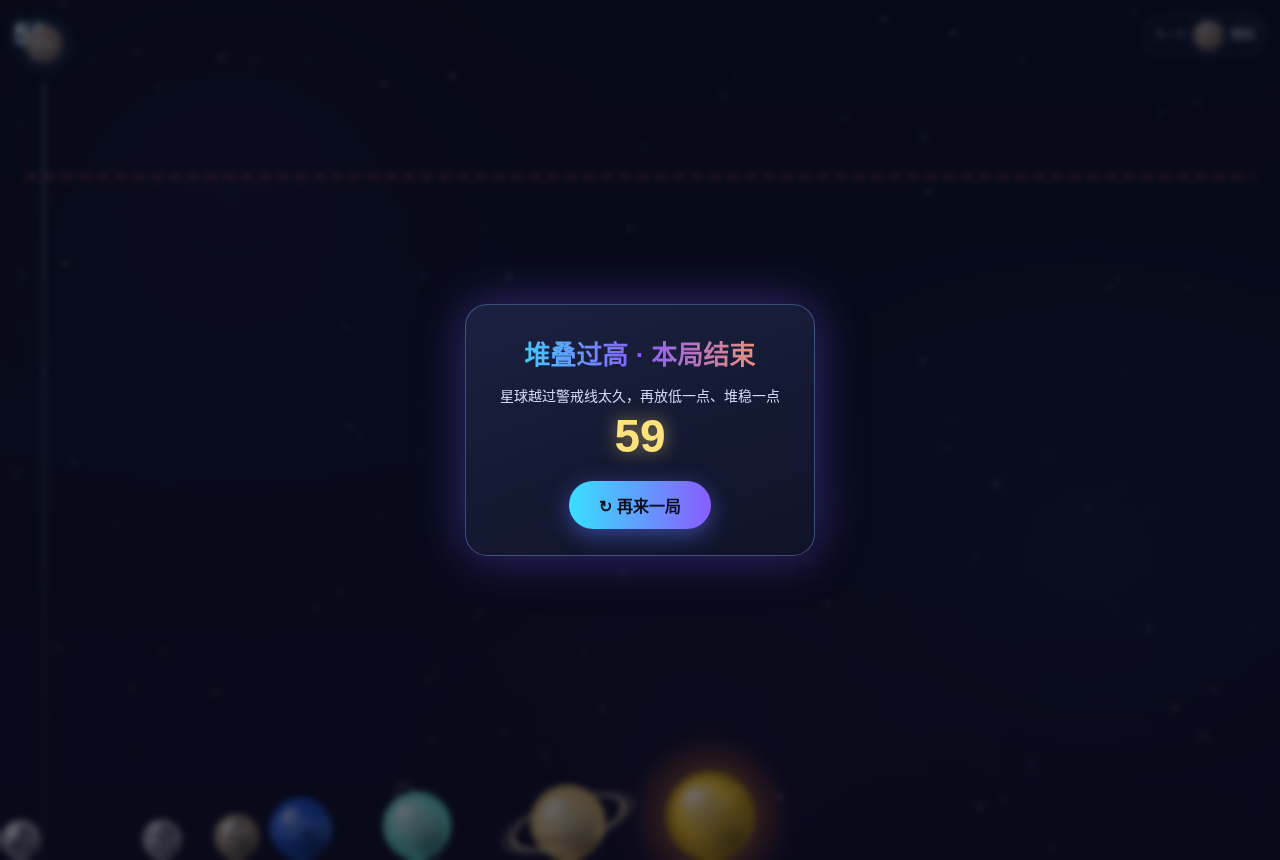
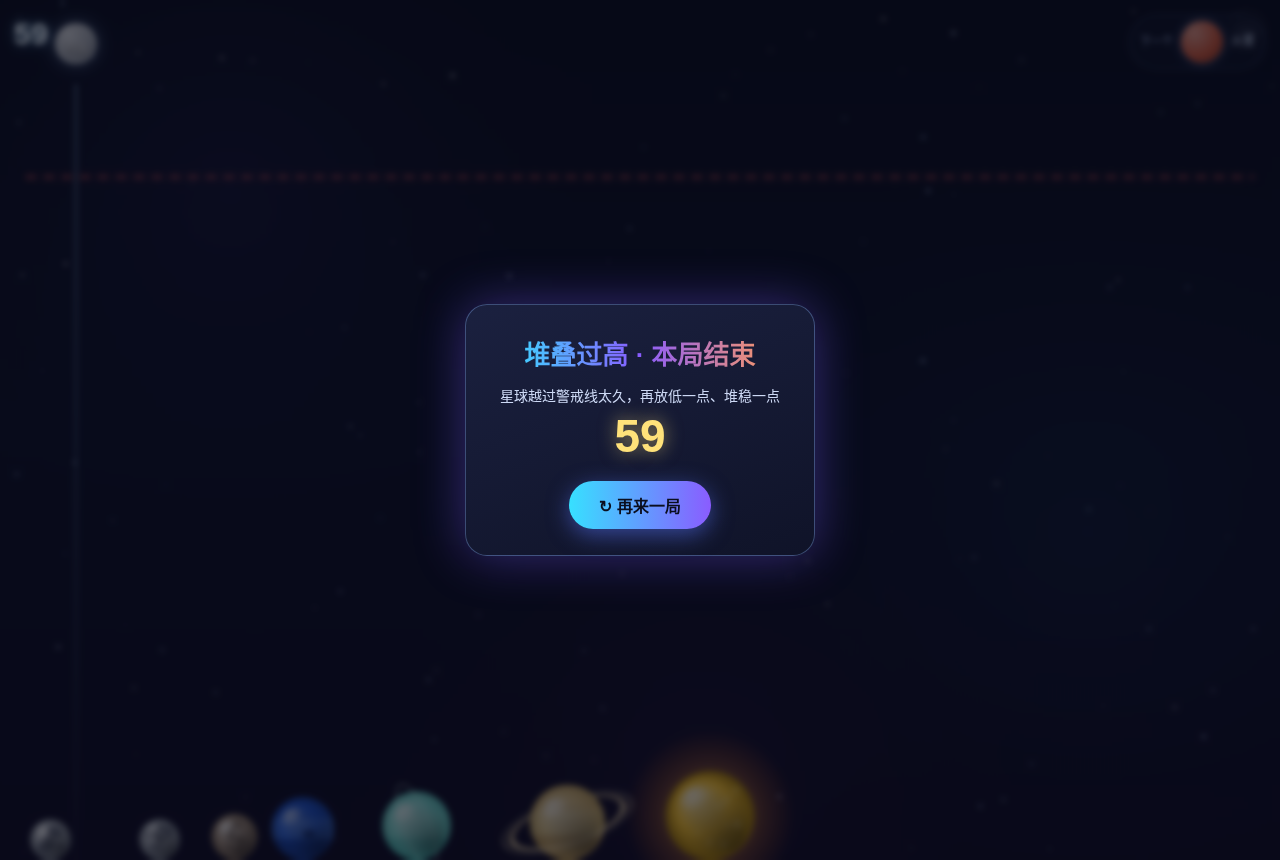
fix(merge-planet): 顶部瞄准区避让HUD防止重叠 (2026-10-20)

Changed region(s): [[0.0, 0.9372, 0.0625, 1.0], [0.0, 0.0302, 0.0938, 0.0907], [0.9062, 0.0302, 0.9688, 0.0907]]

diff --git a/test/merge-planet.test.ts b/test/merge-planet.test.ts
@@ -18,7 +18,11 @@ import {
   createOverline,
   updateOverline,
   clampAim,
-  recordBest
+  planAimRange,
+  rectsOverlap,
+  AIM_HUD_GAP,
+  recordBest,
+  type Rect2
 } from '../src/tools/mini-games/gpu-games/merge-planet/game/logic.ts'
 
 test('进化链：11 级，半径与基础分严格递增，终极为黑洞', () => {
@@ -130,6 +134,73 @@ test('瞄准夹取：越界收敛、NaN 归中、min>max 归中', () => {
   assert.equal(clampAim(200, 40, 360), 200)
   assert.equal(clampAim(NaN, 40, 360), 200)
   assert.equal(clampAim(10, 300, 100), 200)
+})
+
+test('避让区间：无 HUD 时退回纯墙内区间', () => {
+  const p = planAimRange({ width: 375, radius: 16, glow: 14, wallPad: 26, bandY: 0, bandH: 76 })
+  assert.equal(p.min, 26 + 30)
+  assert.equal(p.max, 375 - 26 - 30)
+})
+
+test('避让区间：右侧胶囊把右界内缩，球贴 max 右缘不相交', () => {
+  const reach = 16 + 14
+  const capsule: Rect2 = { x: 300, y: 8, w: 62, h: 34 }
+  const p = planAimRange({ width: 375, radius: 16, glow: 14, wallPad: 26, bandY: 0, bandH: 76, avoid: [capsule] })
+  // max = capsule.x - reach - GAP
+  assert.equal(p.max, 300 - reach - AIM_HUD_GAP)
+  // 球包围盒（含发光）贴 max 时与胶囊无交集
+  const ball: Rect2 = { x: p.max - reach, y: 0, w: reach * 2, h: 76 }
+  assert.equal(rectsOverlap(ball, capsule), false)
+  // 左界不受右侧胶囊影响，仍是墙内左界
+  assert.equal(p.min, 26 + reach)
+})
+
+test('避让区间：左侧分数 HUD 把左界内缩，球贴 min 左缘不相交', () => {
+  const reach = 16 + 14
+  const scoreHud: Rect2 = { x: 0, y: 10, w: 46, h: 38 }
+  const p = planAimRange({ width: 375, radius: 16, glow: 14, wallPad: 26, bandY: 0, bandH: 76, avoid: [scoreHud] })
+  assert.equal(p.min, scoreHud.x + scoreHud.w + reach + AIM_HUD_GAP)
+  const ball: Rect2 = { x: p.min - reach, y: 0, w: reach * 2, h: 76 }
+  assert.equal(rectsOverlap(ball, scoreHud), false)
+})
+
+test('避让区间：胶囊随长文案变宽自动进一步内缩（依据实际包围盒，非写死常数）', () => {
+  const reach = 16 + 14
+  const shortCap: Rect2 = { x: 313, y: 8, w: 49, h: 34 } // 短名
+  const longCap: Rect2 = { x: 286, y: 8, w: 76, h: 34 } // 长星球名更宽
+  const a = planAimRange({ width: 375, radius: 16, glow: 14, wallPad: 26, bandY: 0, bandH: 76, avoid: [shortCap] })
+  const b = planAimRange({ width: 375, radius: 16, glow: 14, wallPad: 26, bandY: 0, bandH: 76, avoid: [longCap] })
+  assert.ok(b.max < a.max, '更宽胶囊应把右界压得更左')
+  // 两档右界均对应各自胶囊左缘
+  assert.equal(a.max, shortCap.x - reach - AIM_HUD_GAP)
+  assert.equal(b.max, longCap.x - reach - AIM_HUD_GAP)
+})
+
+test('避让区间：HUD 在滑轨带垂直之外时不做水平避让', () => {
+  const farHud: Rect2 = { x: 300, y: 400, w: 60, h: 34 }
+  const p = planAimRange({ width: 375, radius: 16, glow: 14, wallPad: 26, bandY: 0, bandH: 76, avoid: [farHud] })
+  assert.equal(p.max, 375 - 26 - 30)
+})
+
+test('避让区间：左右 HUD 同时避让后仍保留可投区间（min<max）', () => {
+  const reach = 16 + 14
+  const left: Rect2 = { x: 0, y: 10, w: 46, h: 38 }
+  const right: Rect2 = { x: 300, y: 8, w: 62, h: 34 }
+  const p = planAimRange({ width: 375, radius: 16, glow: 14, wallPad: 26, bandY: 0, bandH: 76, avoid: [left, right] })
+  assert.ok(p.min < p.max)
+  for (const c of [p.min, (p.min + p.max) / 2, p.max]) {
+    const ball: Rect2 = { x: c - reach, y: 0, w: reach * 2, h: 76 }
+    assert.equal(rectsOverlap(ball, left), false)
+    assert.equal(rectsOverlap(ball, right), false)
+  }
+})
+
+test('避让区间：窄屏+超宽 HUD 压没时回退居中，保证至少一个可投点', () => {
+  const huge: Rect2 = { x: 0, y: 8, w: 375, h: 34 }
+  const p = planAimRange({ width: 375, radius: 16, glow: 14, wallPad: 26, bandY: 0, bandH: 76, avoid: [huge] })
+  assert.equal(p.min, p.max)
+  assert.ok(Number.isFinite(p.min))
+  assert.equal(p.min, 375 / 2)
 })
 
 test('最高分：刷新/保留/平局非新纪录，非法输入兜底 0', () => {

diff --git a/src/tools/mini-games/gpu-games/merge-planet/game/logic.ts b/src/tools/mini-games/gpu-games/merge-planet/game/logic.ts
@@ -152,6 +152,80 @@ export function clampAim(x: number, min: number, max: number): number {
   return Math.min(max, Math.max(min, x))
 }
 
+/** 局部坐标矩形（x/y 左上角，w/h 宽高），用于顶部 HUD 避让。 */
+export interface Rect2 {
+  x: number
+  y: number
+  w: number
+  h: number
+}
+
+/** 两矩形是否相交（pad 为额外外扩间距，用于保守判空）。 */
+export function rectsOverlap(a: Rect2, b: Rect2, pad = 0): boolean {
+  return (
+    a.x <= b.x + b.w + pad &&
+    b.x <= a.x + a.w + pad &&
+    a.y <= b.y + b.h + pad &&
+    b.y <= a.y + a.h + pad
+  )
+}
+
+/** 待投球与避让 HUD 之间的水平呼吸间距（px），避免发光边缘贴住文字。 */
+export const AIM_HUD_GAP = 10
+
+export interface AimRange {
+  min: number
+  max: number
+}
+
+/**
+ * 计算待投球瞄准中心 X 的允许区间（纯函数，组件实测 HUD 包围盒后传入）。
+ *
+ * - 球完整包围盒 = 半径 + 发光外扩 reach，在顶部滑轨带内水平移动；
+ * - 仅当 HUD 与滑轨带在垂直方向也相交时才做水平避让，HUD 按中心落在左/右半屏归为左/右边界；
+ * - 依据 HUD **实际包围盒**避让（胶囊随长星球名变宽会自动内缩），不写死小常数；
+ * - 避让后若区间被压没（min>max，窄屏/HUD 过宽），回退为墙内居中可投，保证至少一个可投点，
+ *   且不把左右可投范围过度压缩。
+ */
+export function planAimRange(opts: {
+  width: number
+  radius: number
+  glow: number
+  wallPad: number
+  bandY: number
+  bandH: number
+  avoid?: Rect2[]
+}): AimRange {
+  const reach = Math.max(0, opts.radius) + Math.max(0, opts.glow)
+  const band: Rect2 = { x: 0, y: opts.bandY, w: opts.width, h: opts.bandH }
+  let min = opts.wallPad + reach
+  let max = opts.width - opts.wallPad - reach
+  // 画布过窄导致墙内区间非法：直接居中兜底
+  if (min > max) {
+    const c = opts.width / 2
+    return { min: c, max: c }
+  }
+  for (const hud of opts.avoid ?? []) {
+    if (!rectsOverlap(band, hud, AIM_HUD_GAP)) continue
+    const center = hud.x + hud.w / 2
+    if (center >= opts.width / 2) {
+      // 右侧 HUD（如「下一个」胶囊）：球右缘 ≤ HUD 左缘 - gap
+      const limit = hud.x - reach - AIM_HUD_GAP
+      if (limit < max) max = limit
+    } else {
+      // 左侧 HUD（如左上分数）：球左缘 ≥ HUD 右缘 + gap
+      const limit = hud.x + hud.w + reach + AIM_HUD_GAP
+      if (limit > min) min = limit
+    }
+  }
+  // 避让后区间被压没：不压没可投范围，回退墙内居中
+  if (min > max) {
+    const c = (opts.wallPad + reach + opts.width - opts.wallPad - reach) / 2
+    return { min: c, max: c }
+  }
+  return { min, max }
+}
+
 /** 最高分纯函数：返回新最高分与是否刷新纪录（持久化由宿主 storage 负责）。 */
 export function recordBest(prev: number, score: number): { best: number; isNewBest: boolean } {
   const p = Number.isFinite(prev) && prev >= 0 ? Math.floor(prev) : 0

diff --git a/src/tools/mini-games/gpu-games/merge-planet/merge-planet.vue b/src/tools/mini-games/gpu-games/merge-planet/merge-planet.vue
@@ -23,7 +23,9 @@ import {
   createOverline,
   updateOverline,
   clampAim,
-  type OverlineState
+  planAimRange,
+  type OverlineState,
+  type Rect2
 } from './game/logic'
 import { makeStarfield, drawSpaceBackground, paintPlanet, hash01, type Star } from './game/render'
 
@@ -54,6 +56,8 @@ const FRICTION_AIR = 0.016
 /** 合并允许的最大相对速度（px/帧），高速撞击不合并避免误触发 */
 const MERGE_MAX_SPEED = 5
 const WALL = 26
+/** 待投球发光外扩 margin（box-shadow 辉光），顶部避让时计入球包围盒。 */
+const AIM_GLOW = 14
 
 interface Planet {
   body: Matter.Body
@@ -270,10 +274,47 @@ function onLose(): void {
   emit('gameover')
 }
 
-// —— 投放 ——
+// —— 投放：瞄准区间由实测 HUD 包围盒避让（纯函数 planAimRange 求区间）——
+function localRect(el: Element): Rect2 | null {
+  const root = rootEl.value
+  if (!root) return null
+  const rr = root.getBoundingClientRect()
+  const b = el.getBoundingClientRect()
+  return { x: b.left - rr.left, y: b.top - rr.top, w: b.width, h: b.height }
+}
+
+/** 顶部需避让的 HUD：本组件「下一个」胶囊 + 宿主左上分数 + 右上控制钮（实测局部包围盒）。 */
+function avoidRects(): Rect2[] {
+  const out: Rect2[] = []
+  const root = rootEl.value
+  if (!root) return out
+  for (const el of root.querySelectorAll('.mp-next')) {
+    const r = localRect(el)
+    if (r) out.push(r)
+  }
+  for (const sel of ['.hud-left', '.hud-btn']) {
+    const el = document.querySelector(sel)
+    if (el) {
+      const r = localRect(el)
+      if (r) out.push(r)
+    }
+  }
+  return out
+}
+
 function settleRange(): { min: number; max: number } {
   const r = radiusFor(currentTier)
-  return { min: WALL + r, max: W - WALL - r }
+  const railEl = rootEl.value?.querySelector('.mp-rail')
+  const rail = railEl ? localRect(railEl) : null
+  return planAimRange({
+    width: W,
+    radius: r,
+    glow: AIM_GLOW,
+    wallPad: WALL,
+    bandY: rail?.y ?? 0,
+    bandH: rail?.h ?? railH,
+    avoid: avoidRects()
+  })
 }
 
 function tryDrop(): void {

diff --git a/src/tools/mini-games/docs/postmortem_001_网页小游戏合集.md b/src/tools/mini-games/docs/postmortem_001_网页小游戏合集.md
@@ -104,6 +104,8 @@
 - 手指可在顶部横条或屏幕任意处水平拖动改瞄准 X，但**预览/引导线永远停在顶部安全区**，落点列在触点 y 之上可见，手指不压堆叠区、不遮落点。
 - PC：鼠标横向移动瞄准、点击/空格投放，键盘左右方向键微调。
 
+**HUD 避让（2026-10-20 补修）**：初版待投球移到最右会压住右上「下一个」胶囊左缘。改为纯函数 `planAimRange`（logic.ts）——组件实测 `.mp-next` 胶囊 / 宿主 `.hud-left` 分数 / `.hud-btn` 的**局部包围盒**，按球半径+发光外扩 reach 求允许区间 `[min,max]` 并 clamp；胶囊随长星球名变宽会自动内缩（不写死常数），窄屏/HUD 压没时回退居中保证至少一个可投点，不把左右可投范围过度压缩。E2E 在 PC 1280×860 与手机 375×812 各跑左/中/右三档，断言球包围盒与两个 HUD 矩形交集为空。
+
 ### 版权合规
 
 - 玩法仅参照"合成类物理合并"通用范式，**不使用**任何竞品名称/形象/素材；星球为通用天体概念，全部程序化原创绘制，无第三方 IP；系统 Emoji 仅作卡片图标。
@@ -111,26 +113,27 @@
 
 ### 验证覆盖
 
-- 单测：新增 `test/merge-planet.test.ts` **11 例**（进化链 11 级半径/分值递增、同级判定、升级链到黑洞、计分与连击、投放随机与冷却闸门、越顶持续计时/瞬时擦过清零、瞄准夹取、最高分纯函数）；全量 `npm test` **414/414 通过**（基线 403 + 新增 11）。
+- 单测：`test/merge-planet.test.ts` **18 例**（进化链 11 级半径/分值递增、同级判定、升级链到黑洞、计分与连击、投放随机与冷却闸门、越顶持续计时/瞬时擦过清零、瞄准夹取、最高分纯函数，另含 7 例 HUD 避让区间：无 HUD/右胶囊/左分数/宽胶囊长文案/垂直远离/左右同避/压没回退居中）；全量 `npm test` **421/421 通过**（基线 403 + 本游戏 18）。
 - 类型：`vue-tsc --noEmit` **0 错**；`npm run verify:tools` 工具数仍 **30**；`npm run build` 成功。
-- E2E `scripts/e2e-merge-planet-20261020.mjs`（preview，三视口 1280×860 / 834×1112 / 375×812）：真实投放 → 同级合成升级加分（20 → 连锁 59）→ 越线持续判负 → 重开归零 → 断网链路合成；手机顶部滑轨几何断言（待投球/引导线在顶部安全区、落点列在触点 y 之上）；零横向溢出、无 pageerror（SW abort 噪音按既有方式过滤）。
+- E2E `scripts/e2e-merge-planet-20261020.mjs`（preview，三视口 1280×860 / 834×1112 / 375×812）：真实投放 → 同级合成升级加分（20 → 连锁 59）→ 越线持续判负 → 重开归零 → 断网链路合成；手机顶部滑轨几何断言（待投球/引导线在顶部安全区、落点列在触点 y 之上）；PC 与手机各跑左/中/右三档，断言球包围盒与右上「下一个」胶囊、左上分数 HUD 矩形交集为空；零横向溢出、无 pageerror（SW abort 噪音按既有方式过滤）。
 
 ### 截图清单（真实构建实拍，非占位/网图）
 
 | 截图文件 | 像素 | 大小 | 内容 | 结论 |
 | --- | --- | --- | --- | --- |
 | mp-pc-picker.png | 1280×860 | 95,043 B | 选卡页「星球进化·物理合成」分区 + 合成大星球免费卡 | 通过 |
-| mp-pc-drop.png | 1280×860 | 333,197 B | 开局投放：顶部滑轨待投球 + 引导线 + 星空 | 通过 |
-| mp-pc-merge.png | 1280×860 | 378,389 B | 合成爆发：海王星/天王星环/土星环/太阳辉光一排 + 粒子 | 通过 |
-| mp-pc-result.png | 1280×860 | 158,053 B | 越线判负结算卡片（分数 59 + 再来一局） | 通过 |
-| mp-tablet-drop.png | 834×1112 | 216,160 B | 平板投放：滑轨/引导线/待投球 | 通过 |
+| mp-pc-drop.png | 1280×860 | 336,143 B | 开局投放：顶部滑轨待投球 + 引导线 + 星空 | 通过 |
+| mp-pc-merge.png | 1280×860 | 384,770 B | 合成爆发：海王星/天王星环/土星环/太阳辉光一排 + 粒子 | 通过 |
+| mp-pc-occlusion.png | 1280×860 | 334,283 B | PC 最右档：待投球内缩到「下一个」胶囊左侧，不压胶囊 | 通过 |
+| mp-pc-result.png | 1280×860 | 160,729 B | 越线判负结算卡片（分数 59 + 再来一局） | 通过 |
+| mp-tablet-drop.png | 834×1112 | 217,309 B | 平板投放：滑轨/引导线/待投球 | 通过 |
 | mp-mobile-picker.png | 375×812 | 78,518 B | 手机选卡 | 通过 |
-| mp-mobile-drop.png | 375×812 | 86,553 B | 手机投放：预览在顶部、不压堆叠区 | 通过 |
-| mp-mobile-occlusion.png | 375×812 | 86,380 B | 手机滑轨不遮挡几何复核 | 通过 |
+| mp-mobile-drop.png | 375×812 | 87,437 B | 手机投放：预览在顶部、不压堆叠区 | 通过 |
+| mp-mobile-occlusion.png | 375×812 | 87,646 B | 手机最右档：待投球避让「下一个」胶囊，几何复核 | 通过 |
 
 ### EdgeOne 限额与 matter chunk
 
-- matter-physics 独立本地 chunk：`assets/matter-physics-*.js` **83.74 KB / gzip 26.21 KB**，已进 SW 预缓存；merge-planet chunk（17.73 KB / gzip 6.93 KB）懒加载后同样预缓存。
+- matter-physics 独立本地 chunk：`assets/matter-physics-*.js` **83.74 KB / gzip 26.21 KB**（build 报告；实测 gzip 25.29 KB），已进 SW 预缓存；merge-planet chunk（18.73 KB / gzip 7.34 KB）懒加载后同样预缓存。
 - EdgeOne 限额（本次构建）：dist 总量 **130.91 MiB**（限 5 GiB）、文件数 **154**（限 20000）、最大单文件 22.90 MiB（既有 onnx，限 25 MiB），全部通过。
 
 ## 可复用经验
